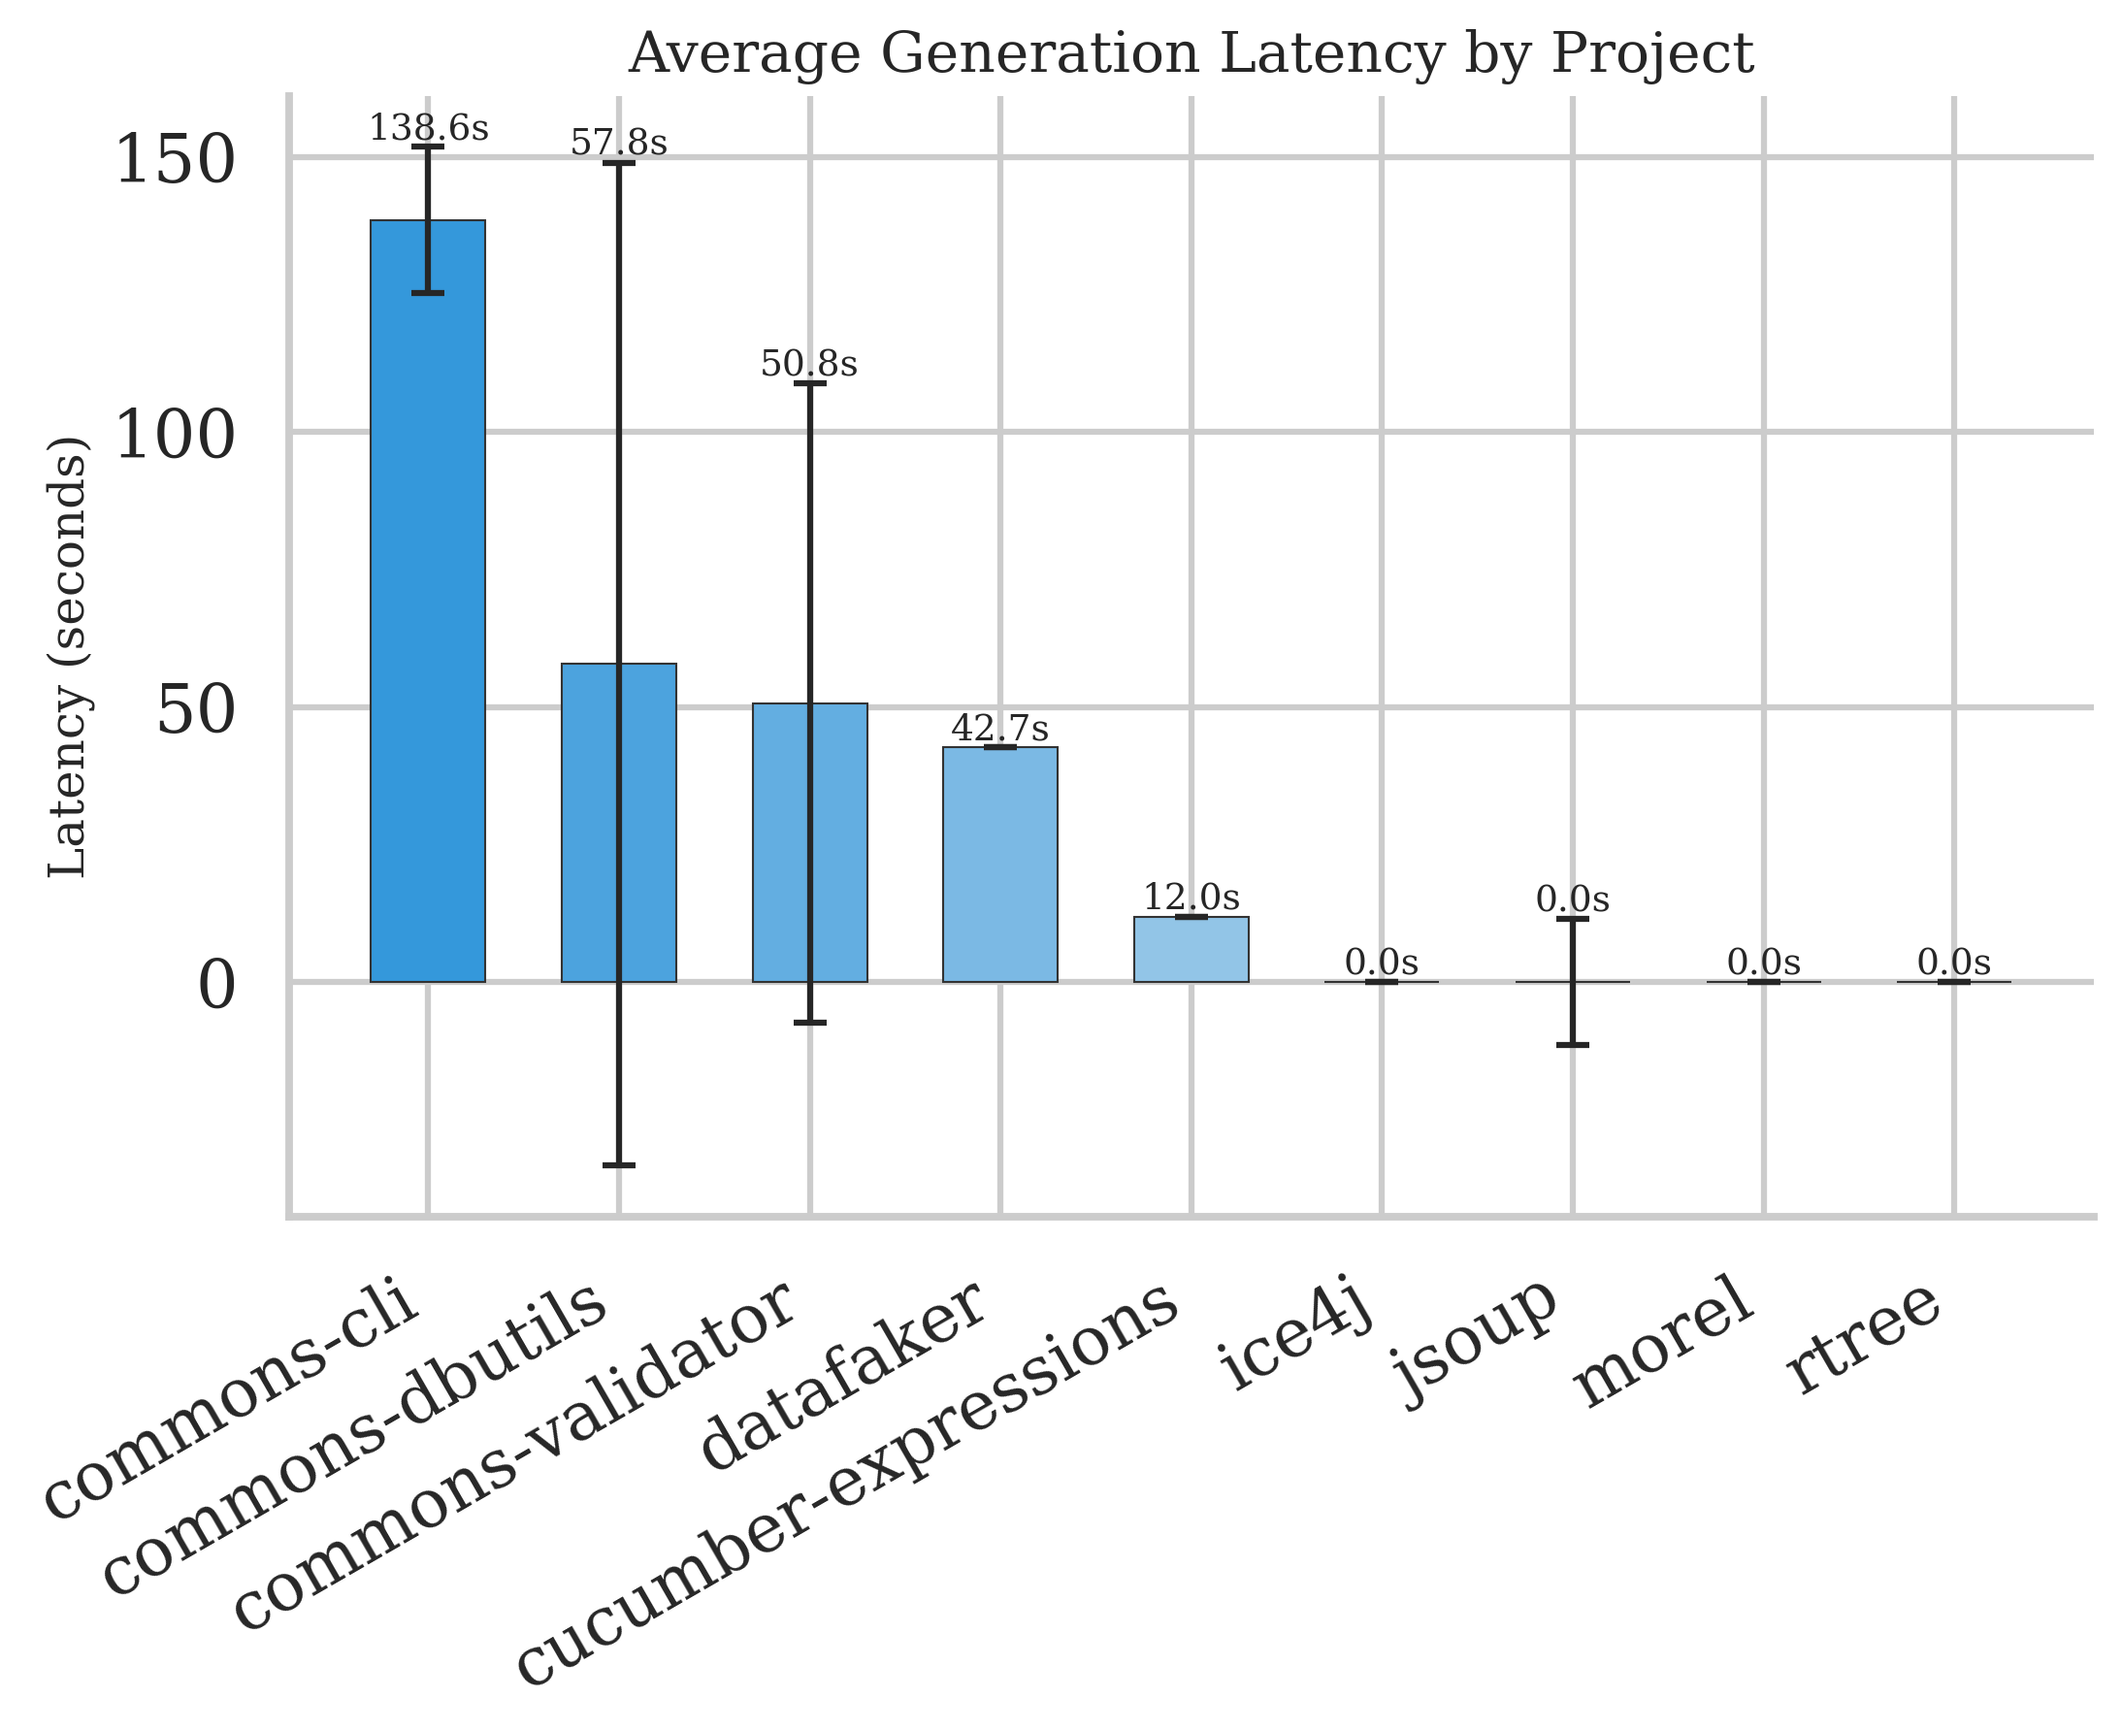
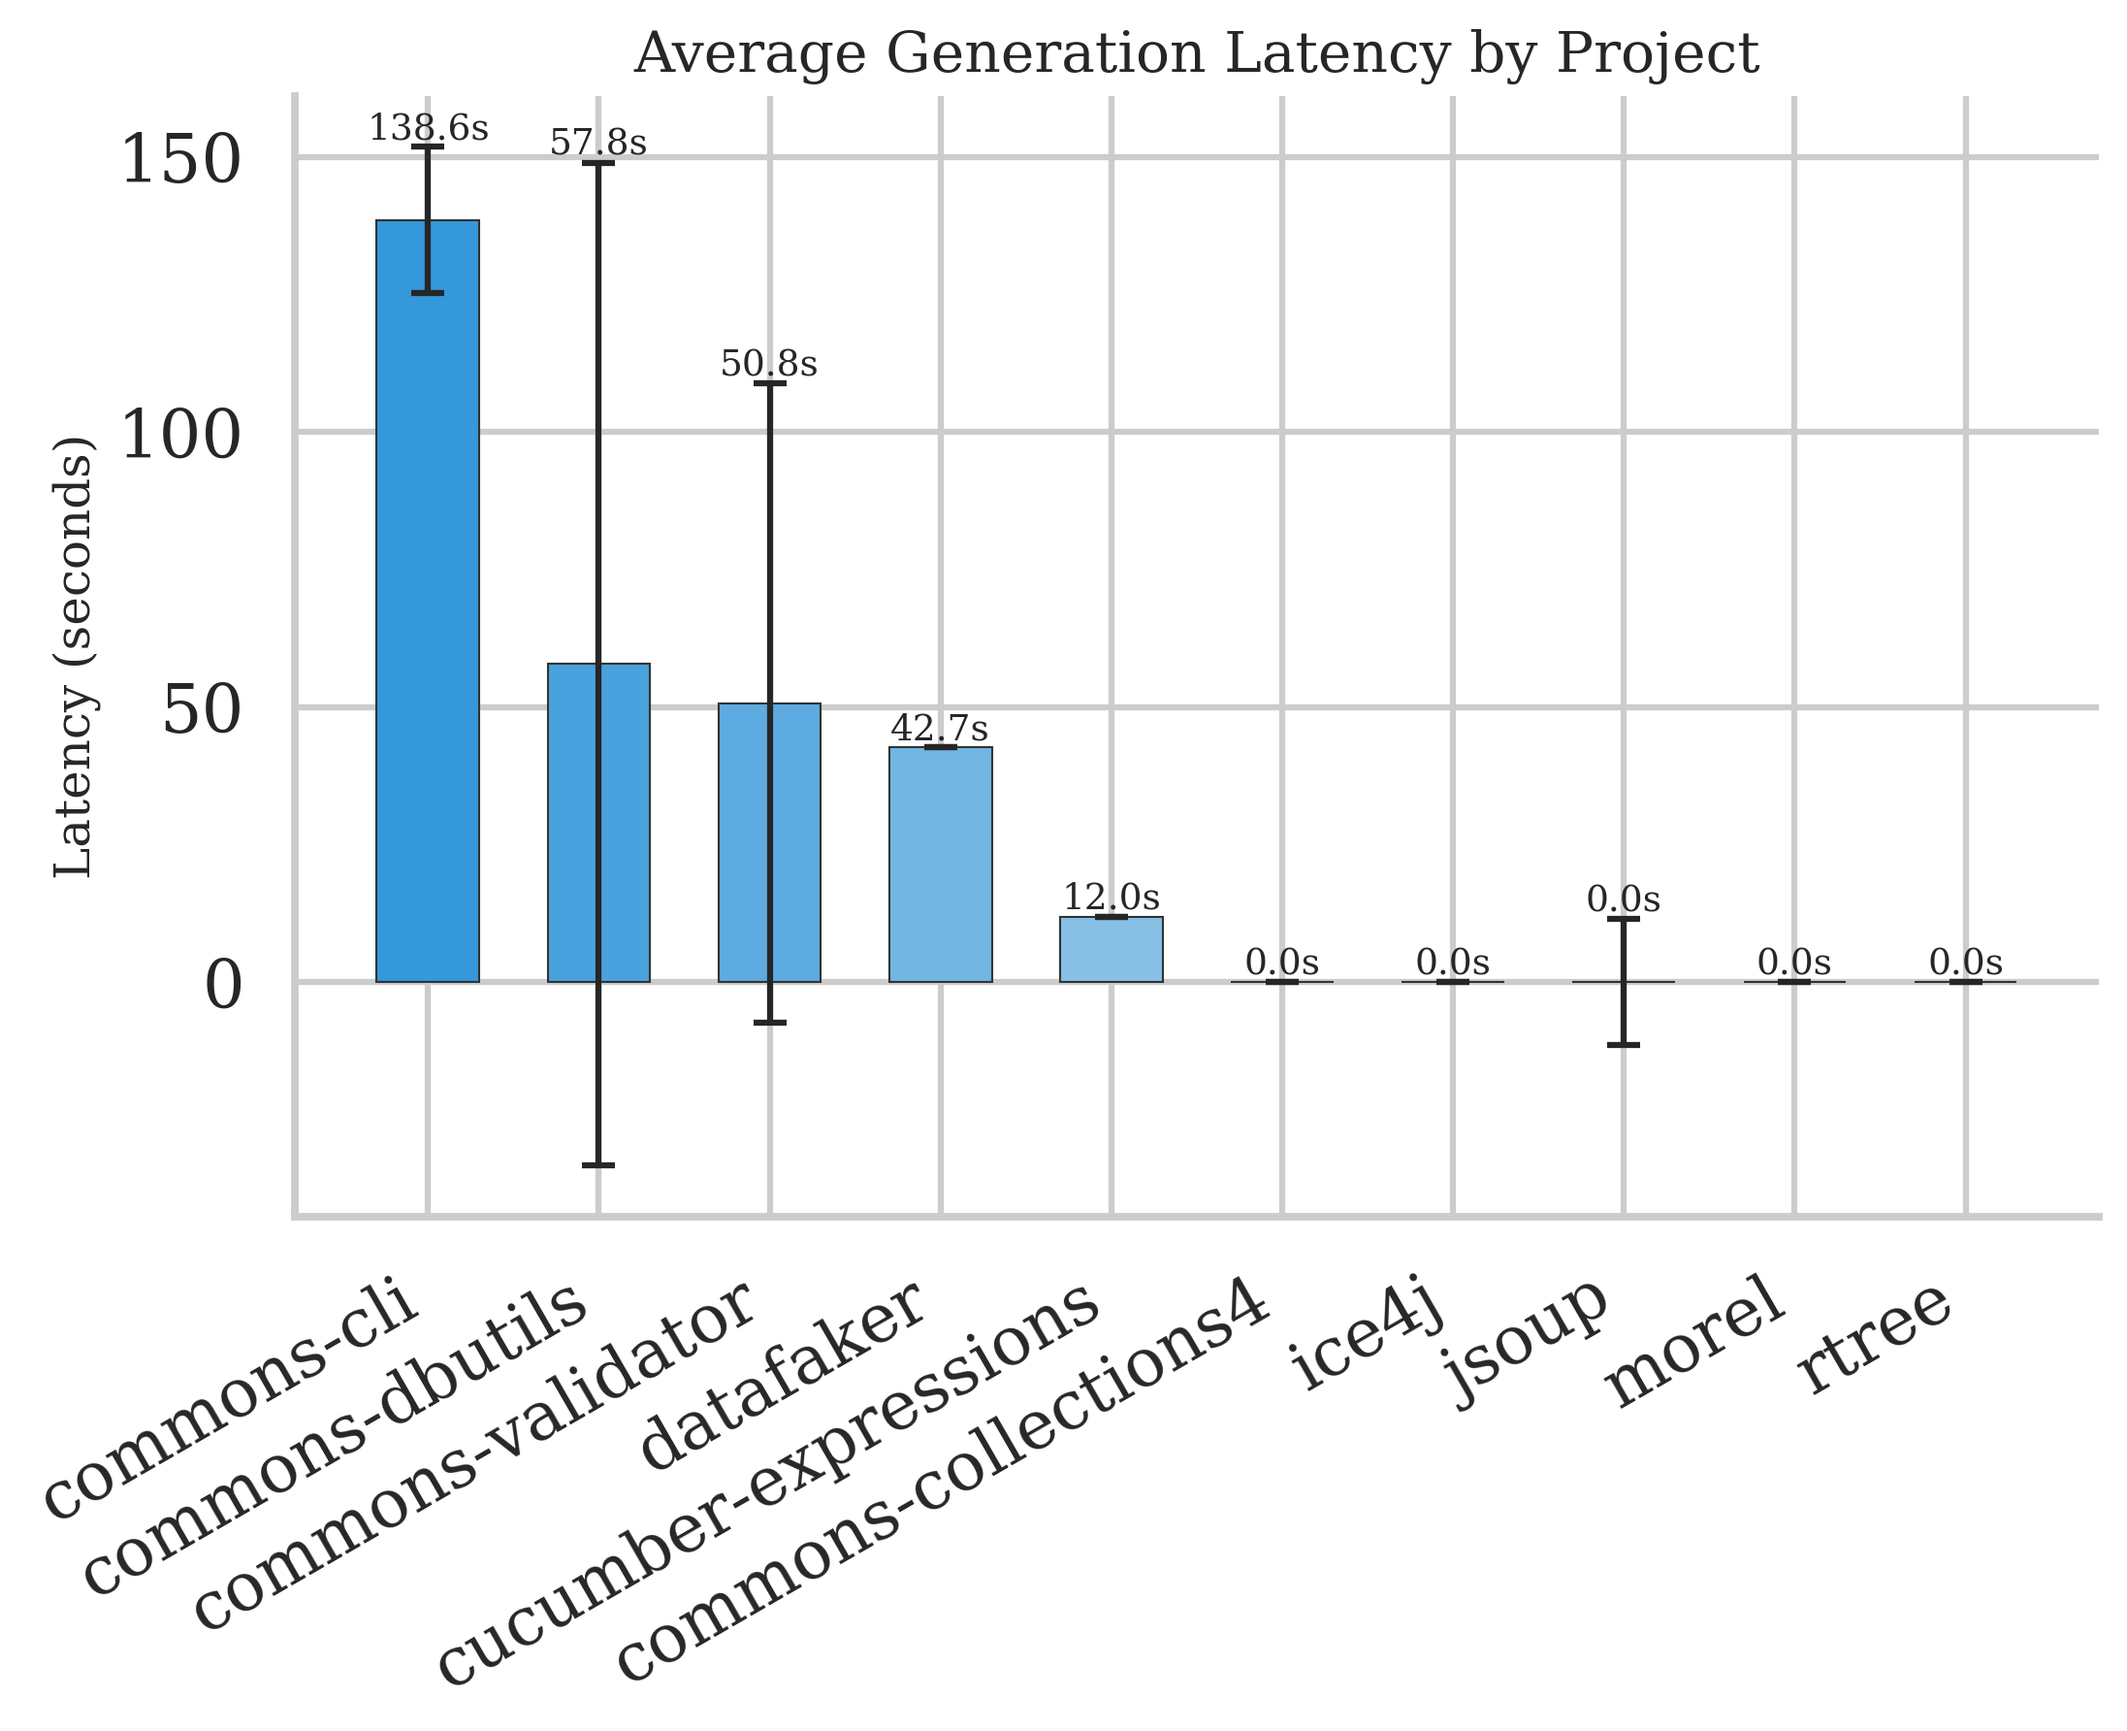
feat(benchmark): add commons-collections4 (337/339), consolidate 10 projects
- 10 projects, 1030 runs, 1009 successful (98.0%)
- 10890 tests, 16656 assertions total
- Regenerated statistical analysis and all figures
- Added skip logic to run_simple.sh for existing runs

diff --git a/results/statistical_analysis.md b/results/statistical_analysis.md
@@ -1,8 +1,8 @@
 # RefTest-12 Statistical Analysis Report
 
-*Generated: 2026-06-05 17:12*
+*Generated: 2026-06-06 17:18*
 
-**Data sources:** NVIDIA consolidated (9 projects), Model comparison (2 models), Detailed runs (24 runs)
+**Data sources:** NVIDIA consolidated (10 projects), Model comparison (2 models), Detailed runs (24 runs)
 
 ------------------------------------------------------------
 
@@ -13,6 +13,7 @@
 | Project | Runs | Gen. Rate | Latency (ms) | Tests/Run | Assertions/Run |
 |---------|------|-----------|-------------|-----------|----------------|
 | commons-cli | 14 | 1.00 | 138564.0 | 15.4 | 28.4 |
+| commons-collections4 | 339 | 0.99 | 0.0 | 11.0 | 14.1 |
 | commons-dbutils | 49 | 1.00 | 57836.0 | 9.8 | 18.0 |
 | commons-validator | 75 | 1.00 | 50760.0 | 12.8 | 17.8 |
 | cucumber-expressions | 34 | 1.00 | 11959.0 | 7.0 | 14.2 |
@@ -23,31 +24,31 @@
 | rtree | 88 | 0.98 | 0.0 | 9.0 | 22.2 |
 
 
-**Cross-Project Statistics (n = 9 projects):**
+**Cross-Project Statistics (n = 10 projects):**
 
 **Avg Latency** (ms):
-  - Mean = 33533.42, Median = 11959.00
-  - Std = 46051.47
+  - Mean = 30180.08, Median = 5979.50
+  - Std = 44693.95
   - Min = 0.00, Max = 138564.00
 
 **Tests per Run** ():
-  - Mean = 11.34, Median = 10.60
-  - Std = 2.88
+  - Mean = 11.31, Median = 10.80
+  - Std = 2.71
   - Min = 7.00, Max = 15.40
 
 **Assertions per Run** ():
-  - Mean = 19.17, Median = 18.00
-  - Std = 5.67
+  - Mean = 18.66, Median = 17.90
+  - Std = 5.58
   - Min = 9.80, Max = 28.40
 
 
 ### 1.2 Overall Success Rate
 
-- Trials: **691**, Successful: **672**
+- Trials: **1030**, Successful: **1009**
 
-- Generation rate: **97.25\%**
+- Generation rate: **97.96\%**
 
-- 95\% Wilson CI: **[95.75\%, 98.23\%]**
+- 95\% Wilson CI: **[96.90\%, 98.66\%]**
 
 
 ### 1.3 Per-Project Latency (Comparison Benchmark, NVIDIA)
@@ -125,9 +126,9 @@ Comparison on the **5 shared projects** where both providers succeeded:
 
 ### 3.1 Total Runs vs. Avg Latency (per project)
 
-- Pearson r = -0.649, p-value = 0.0586
+- Pearson r = -0.537, p-value = 0.1097
 
-- Interpretation: Not significant (p = 0.0586)
+- Interpretation: Not significant (p = 0.1097)
 
 ### 3.2 Avg Latency vs. Quality Score (NVIDIA detailed runs)
 
@@ -137,7 +138,7 @@ Comparison on the **5 shared projects** where both providers succeeded:
 
 ### 3.3 Tests per Run vs. Assertions per Run (per project)
 
-- Pearson r = 0.495, p-value = 0.1752
+- Pearson r = 0.486, p-value = 0.1549
 
 - Interpretation: Not significant
 
@@ -164,6 +165,7 @@ Comparison on the **5 shared projects** where both providers succeeded:
 | Project | n | Success Rate | 95\% Wilson CI |
 |---------|---|--------------|-----------------|
 | commons-cli | 14 | 100.00\% | [78.47\%, 100.00\%] |
+| commons-collections4 | 339 | 99.41\% | [97.87\%, 99.84\%] |
 | commons-dbutils | 49 | 100.00\% | [92.73\%, 100.00\%] |
 | commons-validator | 75 | 100.00\% | [95.13\%, 100.00\%] |
 | cucumber-expressions | 34 | 100.00\% | [89.85\%, 100.00\%] |
@@ -177,7 +179,7 @@ Comparison on the **5 shared projects** where both providers succeeded:
 
 | Dataset Family | n | Mean (s) | t-dist 95\% CI | Bootstrap 95\% CI |
 |---------------|---|----------|-----------------|-------------------|
-| commons | 7 | 115.8s | [38.4, 193.2] | [63.1, 174.8] |
+| commons | 7 | 115.8s | [38.4, 193.2] | [59.6, 174.2] |
 | datafaker | 1 | 24.6s | [24.6, 24.6] | [24.6, 24.6] |
 | ice4j | 1 | 50.2s | [50.2, 50.2] | [50.2, 50.2] |
 | jsoup | 2 | 131.9s | [-13.6, 277.3] | [120.4, 143.3] |
@@ -197,13 +199,13 @@ Comparison on the **5 shared projects** where both providers succeeded:
 
 ### Success Rate
 
-- NVIDIA (Llama 3.3 70B): **97.25\%** generation rate over 691 trials — perfect reliability.
+- NVIDIA (Llama 3.3 70B): **97.96\%** generation rate over 1030 trials — perfect reliability.
 
 - Gemini 2.0 Flash: **41.67\%** success rate (5/12). All failures were credit-limit errors (HTTP 402), not quality issues.
 
 ### Performance
 
-- NVIDIA average latency: **33533 ms** (range 0-138564 ms).
+- NVIDIA average latency: **30180 ms** (range 0-138564 ms).
 
 - Gemini average latency (5 shared projects): **27.4s** vs NVIDIA **113.9s** — Gemini is 4.2x faster.
 
@@ -221,7 +223,7 @@ Comparison on the **5 shared projects** where both providers succeeded:
 
 - Latency vs. Quality: r = **-0.302** (not significant) — higher latency does not predict higher quality.
 
-- Total Runs vs. Avg Latency: r = **-0.649** (not significant) — no systematic relationship between number of runs and latency.
+- Total Runs vs. Avg Latency: r = **-0.537** (not significant) — no systematic relationship between number of runs and latency.
 
 ### Takeaway for Thesis
 

diff --git a/results/nvidia/consolidated_report.md b/results/nvidia/consolidated_report.md
@@ -3,6 +3,7 @@
 | Project | total_runs | generation_ok | generation_rate | avg_latency_ms | total_tests_generated | total_assertions | avg_tests_per_run | avg_assertions_per_run |
 |---|---|---|---|---|---|---|---|---|
 |    commons-cli |             14 |             14 |            1.0 |       138564.0 |            216 |            398 |          15.40 |          28.40 |
+| commons-collections4 |            339 |            337 |           0.99 |            0.0 |           3721 |           4740 |           11.0 |          14.10 |
 | commons-dbutils |             49 |             49 |            1.0 |        57836.0 |            479 |            883 |           9.80 |           18.0 |
 | commons-validator |             75 |             75 |            1.0 |        50760.0 |            961 |           1332 |          12.80 |          17.80 |
 | cucumber-expressions |             34 |             34 |            1.0 |        11959.0 |            237 |            482 |            7.0 |          14.20 |
